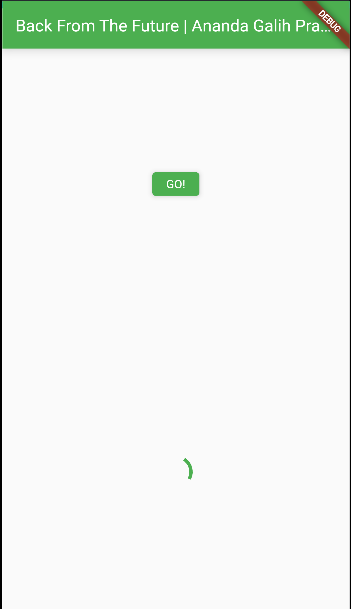
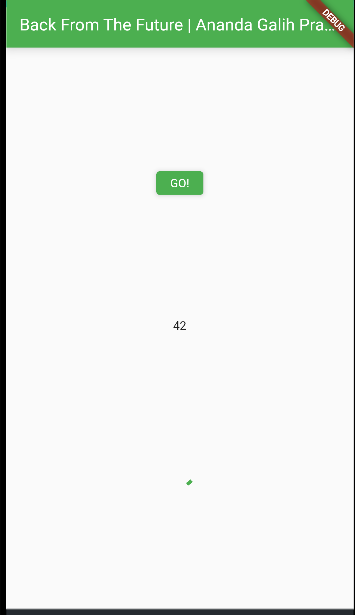
W12: Soal 6 + gambar soal 5

diff --git a/WEEK-12/src/books/lib/main.dart b/WEEK-12/src/books/lib/main.dart
@@ -32,7 +32,7 @@ class FuturePage extends StatefulWidget {
 }
 
 class _FuturePageState extends State<FuturePage> {
-  String result = '';
+  String result = "";
   Future<Response> getData() async {
     const authority = 'www.googleapis.com';
     const path = '/books/v1/volumes/jFFFDwAAQBAJ';
@@ -49,8 +49,12 @@ class _FuturePageState extends State<FuturePage> {
   }
 
   Future calculate() async {
-    await Future.delayed(const Duration(seconds: 5));
-    completer.complete(42);
+    try {
+      await Future.delayed(const Duration(seconds: 5));
+      completer.complete(42);
+    } catch (_) {
+      completer.completeError({});
+    }
   }
 
   Future<int> returnOneAsync() async {
@@ -82,7 +86,7 @@ class _FuturePageState extends State<FuturePage> {
   Widget build(BuildContext context) {
     return Scaffold(
       appBar: AppBar(
-        title: const Text('Back From The Future | Ananda Galih Pratiwi'),
+        title: const Text('Back from the Future | Ananda Galih'),
       ),
       body: Center(
         child: Column(
@@ -95,6 +99,8 @@ class _FuturePageState extends State<FuturePage> {
                   setState(() {
                     result = value.toString();
                   });
+                }).catchError((e) {
+                  result = 'An error occurred';
                 });
                 // count();
                 // setState(() {});

diff --git a/WEEK-12/README.md b/WEEK-12/README.md
@@ -53,3 +53,9 @@ Soal 5:
 Penjelasan kode langkah 2:
 
 cara menggunakan Completer untuk membuat Future secara manual. Completer digunakan untuk mengontrol dan menyelesaikan sebuah Future saat suatu operasi asinkron selesai dilakukan, dalam hal ini simulasi penundaan selama 5 detik sebelum nilai 42 disampaikan sebagai hasil Future.
+
+Soal 6:
+
+![](/WEEK-12/docs/praktikum-01/soal6.gif)
+
+Perbedaan yang signifikan antara langkah 2 dan langkah 5-6 terletak pada penanganan error menggunakan blok try dan catch. Jika pada langkah 2 terdapat langkah untuk menyelesaikan Future dengan memberikan nilai, pada langkah 5-6 terdapat penanganan error dengan menetapkan status error. Pada langkah 6, ketika getNumber() mengalami error, nilai variabel result akan diatur sebagai 'An error occurred', bukan nilai dari Future yang dihasilkan.
